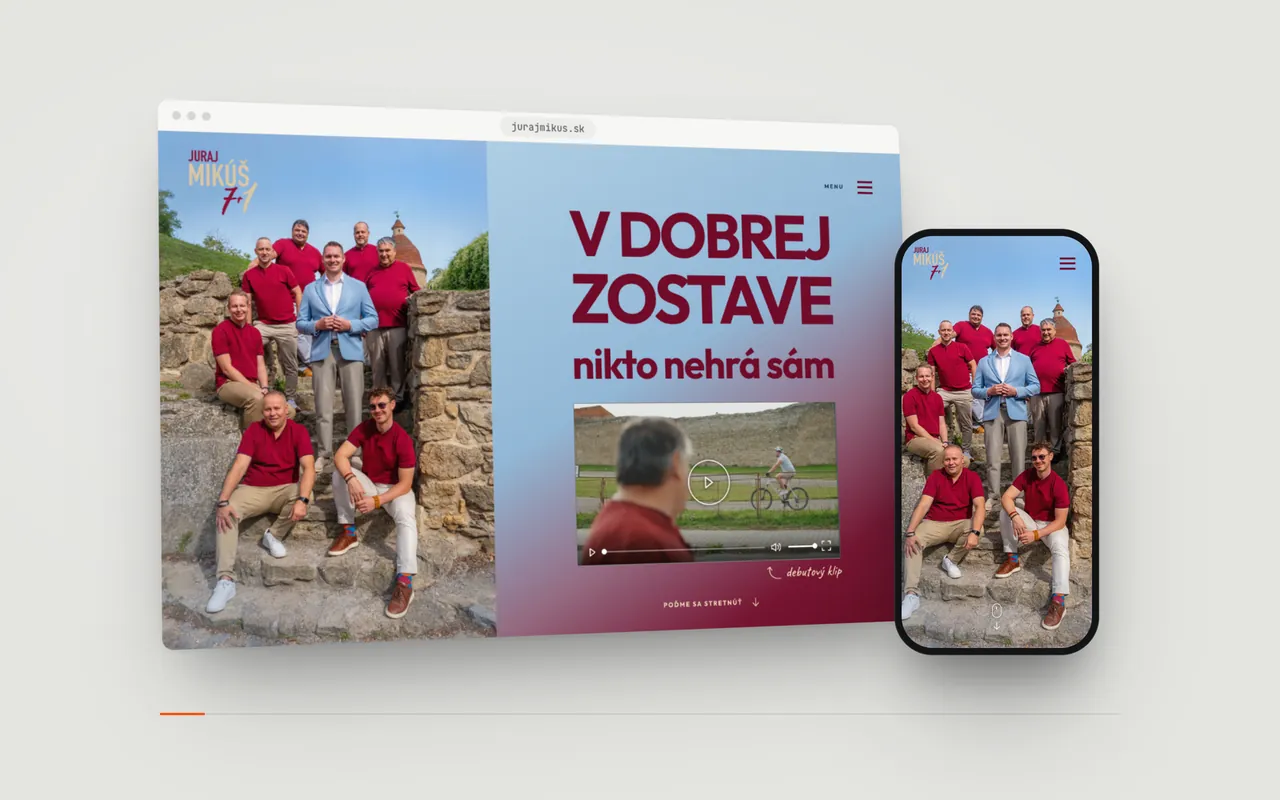
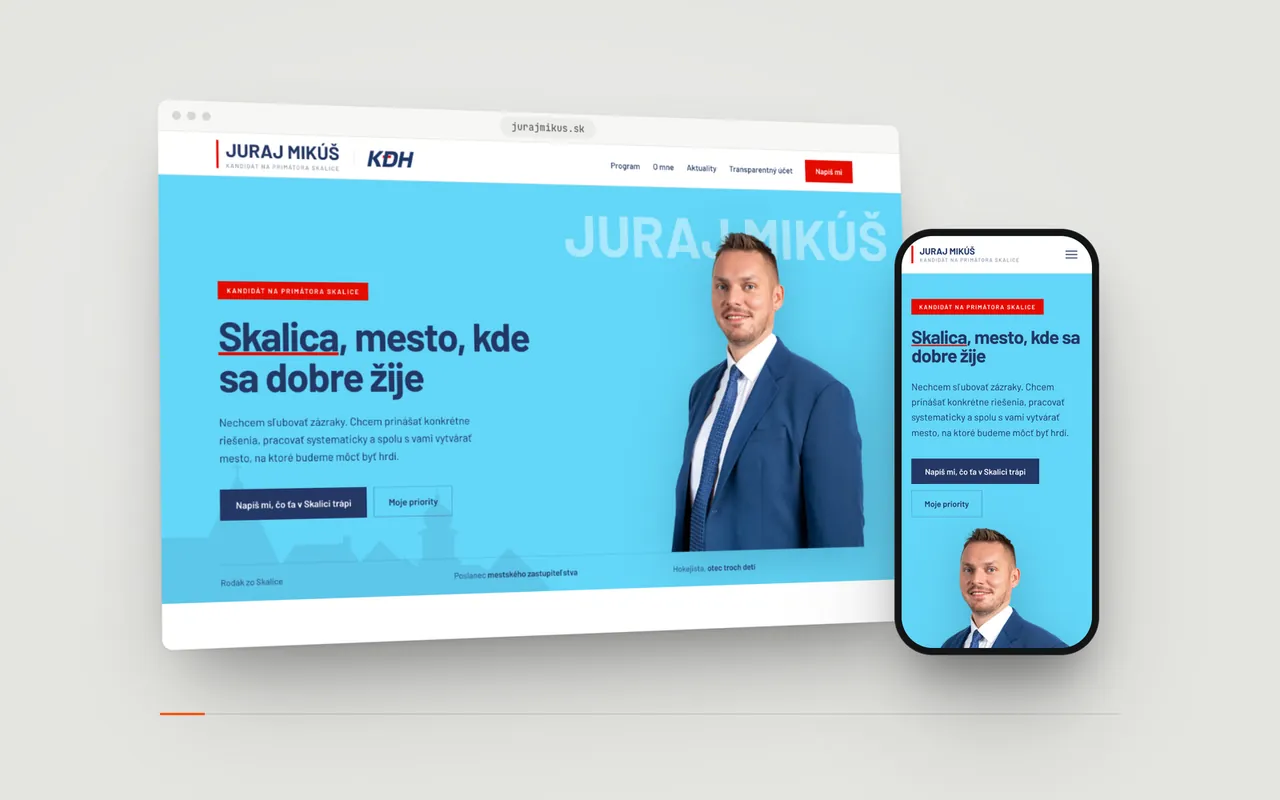
feat: add Limo Prestige and reshoot the Juraj Mikúš site
Limo Prestige, a premium chauffeur service built on a custom WordPress theme from the supplied design in collaboration with be-you.sk, joins the project list. The Juraj Mikúš mockup is shot again from the version the owner prefers.

Claude-Session: https://claude.ai/code/session_01PKCQWWLRqNiVe378y6dgJn

diff --git a/shared/projects.ts b/shared/projects.ts
@@ -438,6 +438,24 @@ export const PROJECT_INFO: readonly ProjectInfo[] = [
     credit: { sk: 'V spolupráci s be-you.sk.', en: 'In collaboration with be-you.sk.' },
   },
   {
+    name: 'Limo Prestige',
+    url: 'https://limo-prestige.sk',
+    slug: 'limoprestige',
+    context: 'denva',
+    featured: false,
+    kind: { sk: 'Prémiová preprava s osobným šoférom', en: 'Premium chauffeur service' },
+    desc: { sk: 'WordPress téma na mieru podľa dodanej grafiky', en: 'Custom WordPress theme from the supplied design' },
+    summary: {
+      sk: 'Web prémiovej prepravy osôb s osobným šoférom, ktorý predstavuje služby, vozový park a obľúbené destinácie. Vlastná WordPress téma podľa dodanej grafiky.',
+      en: 'A website for a premium chauffeur service that presents its services, fleet and popular destinations, on a custom WordPress theme built from the supplied design.',
+    },
+    scope: {
+      sk: ['WordPress téma na mieru podľa dodanej grafiky'],
+      en: ['A custom WordPress theme built from the supplied design'],
+    },
+    credit: { sk: 'V spolupráci s be-you.sk.', en: 'In collaboration with be-you.sk.' },
+  },
+  {
     name: 'Jaroslav Koštial',
     url: 'https://jaroslavkostial.sk',
     slug: 'jaroslavkostial',

diff --git a/src/data/projects.ts b/src/data/projects.ts
@@ -11,6 +11,7 @@ import elektrarnapiestany from '../assets/projects/elektrarnapiestany.webp';
 import jaroslavkostial from '../assets/projects/jaroslavkostial.webp';
 import jurajmikus from '../assets/projects/jurajmikus.webp';
 import ledpixel from '../assets/projects/ledpixel.webp';
+import limoprestige from '../assets/projects/limoprestige.webp';
 import lekar from '../assets/projects/lekar.webp';
 import madad from '../assets/projects/madad.webp';
 import monkeystudios from '../assets/projects/monkeystudios.webp';
@@ -57,6 +58,7 @@ const IMAGES: Readonly<Record<string, string>> = {
   jaroslavkostial,
   jurajmikus,
   ledpixel,
+  limoprestige,
   lekar,
   madad,
   monkeystudios,

diff --git a/worker/agent/prompt.ts b/worker/agent/prompt.ts
@@ -2,7 +2,7 @@ import { FACTS } from './facts';
 import { INTRO, RULES } from './rules';
 
 /** Bump on any wording change so eval runs and logged answers can be tied to a prompt revision. */
-export const PROMPT_VERSION = '2026-10-05.5';
+export const PROMPT_VERSION = '2026-10-06.1';
 
 const bullets = (lines: readonly string[]): string => lines.map((line) => `- ${line}`).join('\n');
 

diff --git a/src/i18n/copy-parity.test.ts b/src/i18n/copy-parity.test.ts
@@ -47,7 +47,7 @@ describe('copy parity', () => {
 
   it('data has the design counts', () => {
     expect(JOBS).toHaveLength(6);
-    expect(PROJECTS).toHaveLength(35);
+    expect(PROJECTS).toHaveLength(36);
     expect(SKILLS).toHaveLength(6);
     expect(new Set(PROJECTS.map((p) => p.slug)).size).toBe(PROJECTS.length);
   });

diff --git a/worker/agent/prompt.test.ts b/worker/agent/prompt.test.ts
@@ -70,6 +70,6 @@ describe('buildInstructions', () => {
   });
 
   it('exposes the prompt version of this wording', () => {
-    expect(PROMPT_VERSION).toBe('2026-10-05.5');
+    expect(PROMPT_VERSION).toBe('2026-10-06.1');
   });
 });
